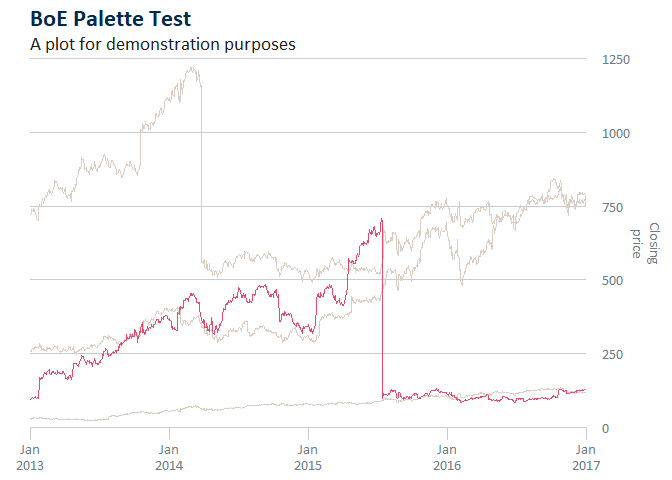
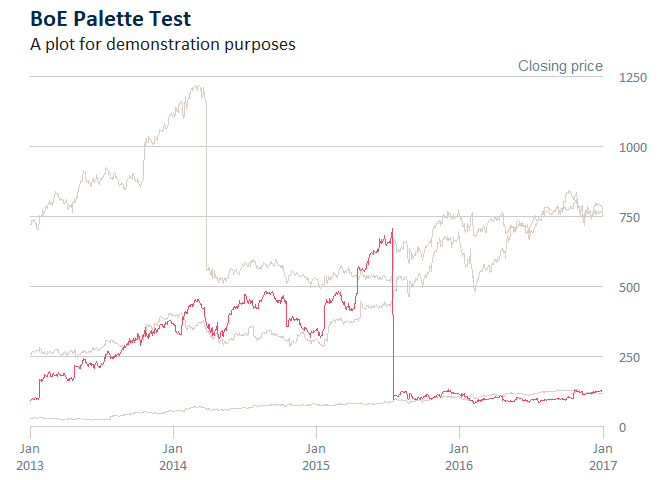
update readme

diff --git a/README.md b/README.md
@@ -5,14 +5,14 @@ boeCharts
 Overview
 --------
 
-`boeCharts` is an R package containing Bank chart styles and themes, in-line with [Bank standards on corporate identity](https://bankofengland.frontify.com/d/RPk6pMZziBFw/bank-standards), recommended (and designed) for use in conjunction with [ggplot2](https://ggplot2.tidyverse.org/). It currently houses designs for approximating charts found within a number of flagship publications:
+`boeCharts` is an R package to help you create charts that are in-line with [the Bank's visual identity standards](https://bankofengland.frontify.com/d/RPk6pMZziBFw/bank-standards), recommended (and designed) for use in conjunction with [ggplot2](https://ggplot2.tidyverse.org/). It contains design patterns for approximating charts found within flagship publications, including:
 
 -   [Bank Overground](https://www.bankofengland.co.uk/bank-overground)
 -   [Monetary Policy Report](https://www.bankofengland.co.uk/monetary-policy-report/2019/november-2019) (FKA Inflation Report)
 -   [Statistical Releases](https://www.bankofengland.co.uk/statistics/money-and-credit/2019/april-2019)
 
-Install
--------
+Installation
+------------
 
 Ensure you are installing R packages via [Artifactory](https://binarycentral/artifactory/webapp/#/home) by **running this once** (within an R session):
 
@@ -32,41 +32,40 @@ You can then install the latest stable version of `boeCharts` from Artifactory w
 install.packages("boeCharts")
 ```
 
-### Using custom fonts
+You can also install the development version of `boeCharts` like so:
 
-`boeCharts` helps you safely import and use fonts other than the basic fonts R already uses (with help from the `extrafont` package). These fonts can be imported using an associated `import_` utility function. For example, to import Calibri (used by default in some `boeCharts` themes), you should run the `import_calibri()` function.
+``` r
+remotes::install_git(
+  "https://almplatform/tfs/UnmanagedCollection/Shared%20Analytical%20Code/_git/boeCharts", 
+  git = "external"
+)
+```
 
-N.B. the font import step only needs to be run once on your machine. Fonts will be loaded automatically when you load `boeCharts` in future sessions.
+N.B. the development version should only be used for experimentation. Use the latest stable version, released via Artifactory, in any production code.
 
-Use
----
+Usage
+-----
+
+### Complementing a ggplot2 worflow
 
 `boeCharts` provides native support for use with [ggplot2](https://ggplot2.tidyverse.org/) (a popular R graphics library). You can use `scale_[colour|fill]_[continuous|discrete]_boe` functions for adopting Bank colour palettes within charts generated by `ggplot2`, and `theme_xxx` functions for applying full chart styles supported by `boeCharts`.
 
-Both longer form guides and quick-start examples are included below.
+#### A minimal example
 
-### Articles
+First, load packages:
 
-Cookbooks:
-
--   [Introduction to boeCharts - produce “Bank-ready” data visualisation with ggplot2](http://collaborate/workspaces/RHelpCentre/R%20Markdown/boeCharts_intro.html)
--   [Visualising Distributions](http://collaborate/workspaces/RHelpCentre/R%20Markdown/ChartsVisualisingDistributions.html)
--   [Other charts from SPERI speech](http://collaborate/workspaces/RHelpCentre/R%20Markdown/ChartsOthers.html)
-
-Vignettes:
-
--   [Using boeCharts](http://collaborate/workspaces/RHelpCentre/R%20Markdown/using-boeCharts.html)
--   [Bank-standard colours with boeCharts](http://collaborate/workspaces/RHelpCentre/R%20Markdown/Bank-standard-colours-with-boeCharts.html)
--   [‘Last-mile’ formatting](http://collaborate/workspaces/RHelpCentre/R%20Markdown/last-mile-formatting.html)
-
-### A minimal example
+``` r
+library(boeCharts)
+#> boeCharts: Bank Chart Themes and Styles for 'ggplot2'. 
+#>      For more information visit:
+#>      https://almplatform/tfs/UnmanagedCollection/Shared%20Analytical%20Code/_git/boeCharts?path=%2FREADME.md
+#> 
+library(ggplot2)
+```
 
 Here is an out-of-the-box `ggplot2` chart.
 
 ``` r
-# load ggplot2
-library(ggplot2)
-
 # build chart
 chart <- ggplot(iris, aes(Sepal.Length, Sepal.Width, color = Species)) +
   # jittery scatter
@@ -76,22 +75,31 @@ chart <- ggplot(iris, aes(Sepal.Length, Sepal.Width, color = Species)) +
 chart
 ```
 
-![](man/figures/README-unnamed-chunk-4-1.png)
+![](man/figures/README-unnamed-chunk-6-1.png)
 
-Below, the [Bank Overground](https://www.bankofengland.co.uk/bank-overground) chart theme and a "vibrant" Bank colour combination are added to the same object.
+Custom themes can be applied to ggplot objects as additional "layers". As mentioned above, all `boeCharts` theme functions are prefixed by `theme_` e.g. `theme_overground()` applies the [Bank Overground](https://www.bankofengland.co.uk/bank-overground) chart theme:
 
 ``` r
-# load boeCharts
-library(boeCharts)
-
-chart +
+chart <- chart +
   # add Bank Overground theme
-  theme_overground() +
-  # add a "vibrant" Bank colour combination
-  scale_colour_discrete_boe(palette = "vibrant_c")
+  theme_overground()
+
+chart
 ```
 
-![](man/figures/README-unnamed-chunk-5-1.png)
+![](man/figures/README-unnamed-chunk-7-1.png)
+
+Custom ggplot scales help with applying Bank colour palettes. In this case, the points can be coloured with a "vibrant" Bank colour combination variant, via `scale_colour_discrete_boe()`, again as an additional ggplot layer:
+
+``` r
+chart <- chart +
+  # add a "vibrant" Bank colour combination
+  scale_colour_discrete_boe(palette = "vibrant_c")
+
+chart
+```
+
+![](man/figures/README-unnamed-chunk-8-1.png)
 
 Now, switching in the [Monetary Policy Report](https://www.bankofengland.co.uk/monetary-policy-report/2019/november-2019) theme and pre-MPC colours.
 
@@ -103,21 +111,20 @@ chart +
   scale_colour_discrete_boe(palette = "pre_mpc")
 ```
 
-![](man/figures/README-unnamed-chunk-6-1.png)
+![](man/figures/README-unnamed-chunk-9-1.png)
 
-### A more in-depth example
+#### A more in-depth example
 
-Another `ggplot2` + `boeCharts` creation, this time investigating some more customization options, including automatic axis breaks and limits. The [`gghighlight`](https://yutannihilation.github.io/gghighlight/) library is also featured in this example.
+Another `ggplot2` + `boeCharts` creation, this time investigating some more customization options, including automatic axis breaks/limits (using `boe_breaks|limits_date|numeric()`) and above-plot y-axis title positioning (using `move_ylab()`). The [`gghighlight`](https://yutannihilation.github.io/gghighlight/) library is also featured in this example.
 
 ``` r
-
 # load extra packages
 library(gghighlight)
 
 # create chart
-ggplot(data = FANG, aes(x = date, y = close, colour = symbol)) +
-  # add lines, tweak line width 
-  geom_line(size = 0.7, show.legend = FALSE) +
+chart_nflx <- ggplot(data = FANG, aes(x = date, y = close, colour = symbol)) +
+  # add lines
+  geom_line(show.legend = FALSE) +
   # highlight netflix stocks
   gghighlight(
     symbol == "NFLX", unhighlighted_colour = boe_neutral$stone,
@@ -127,12 +134,12 @@ ggplot(data = FANG, aes(x = date, y = close, colour = symbol)) +
   labs(
     title = "BoE Palette Test", 
     subtitle = "A plot for demonstration purposes",
-    y = "Closing\nprice", x = NULL
+    y = "Closing price", x = NULL
     ) +
   # use 'highlights' palette
   scale_colour_discrete_boe(palette = "boe_highlights") +
   # add Bank Overground theme
-  theme_overground(axis_text_size = 11) +
+  theme_overground() +
   # apply custom axis settings
   scale_y_continuous(
     expand = c(0, 0), breaks = boe_breaks_numeric(), 
@@ -142,29 +149,42 @@ ggplot(data = FANG, aes(x = date, y = close, colour = symbol)) +
     expand = c(0, 0), labels = boe_date_labels(),
     breaks = boe_breaks_date(), limits = boe_limits_date()
     )
+
+# re-position y axis title above plot
+move_ylab(chart_nflx) 
 ```
 
 ![](man/figures/README-example-1.png)
 
-### A disclaimer on fonts
+### Using custom fonts
 
-Font handling in R is tricky, partly because they are implemented differently depending on OS (e.g. Windows, Mac) and graphics device (e.g. on-screen, PDF, svg). In the latest `boeCharts` release, the "Calibri" font family (used by default in `theme_overground`) is registered with R when the package is loaded on a Windows device. However, font behaviour may change unexpectedly depending on the OS and graphics device you're using.
+`boeCharts` helps you safely import and use fonts other than the basic fonts R already uses (with help from the `extrafont` package). These fonts can be imported using an associated `import_` utility function. For example, to import Calibri (used by default in some `boeCharts` themes), you should run the `import_calibri()` function.
 
-Alternatively, here are some known libraries to consider:
+N.B. the font import step only needs to be run once on your machine. Fonts will be loaded automatically when you load `boeCharts` in future sessions.
 
--   [ragg](https://ragg.r-lib.org/) - Graphic devices for R based on the AGG library
--   [showtext](https://cran.r-project.org/web/packages/showtext/index.html) - Using Fonts More Easily in R Graphs
--   [extrafont](https://cran.r-project.org/web/packages/extrafont/) - Tools to using fonts (most core functionality blocked on standard Bank devices)
+More guides/examples
+--------------------
 
-Contribute
-----------
+Vignettes:
+
+-   [Using boeCharts](http://collaborate/workspaces/RHelpCentre/R%20Markdown/using-boeCharts.html)
+-   [Bank-standard colours with boeCharts](http://collaborate/workspaces/RHelpCentre/R%20Markdown/Bank-standard-colours-with-boeCharts.html)
+-   [‘Last-mile’ formatting](http://collaborate/workspaces/RHelpCentre/R%20Markdown/last-mile-formatting.html)
+
+Cookbooks:
+
+-   [Introduction to boeCharts - produce “Bank-ready” data visualisation with ggplot2](http://collaborate/workspaces/RHelpCentre/R%20Markdown/boeCharts_intro.html)
+-   [Visualising Distributions](http://collaborate/workspaces/RHelpCentre/R%20Markdown/ChartsVisualisingDistributions.html)
+-   [Other charts from SPERI speech](http://collaborate/workspaces/RHelpCentre/R%20Markdown/ChartsOthers.html)
+
+How to contribute
+-----------------
 
 This is an ongoing project to abstract and consolidate Bank charting guidelines, and any/all contributions are encouraged. Inspecting the source code in this repository will help with understanding how to make a custom palette, or building a chart theme for your business area. The following resources are also helpful (and inspired much of this effort):
 
 -   [Modify components of a theme](https://ggplot2.tidyverse.org/reference/theme.html)
 -   [govstyle](https://github.com/ukgovdatascience/govstyle)
 -   [hrbrthemes](https://github.com/hrbrmstr/hrbrthemes)
--   [Building a new theme](https://bookdown.org/rdpeng/RProgDA/building-a-new-theme.html)
 
 Also, for general consideration when contributing to the package, try to:
 
